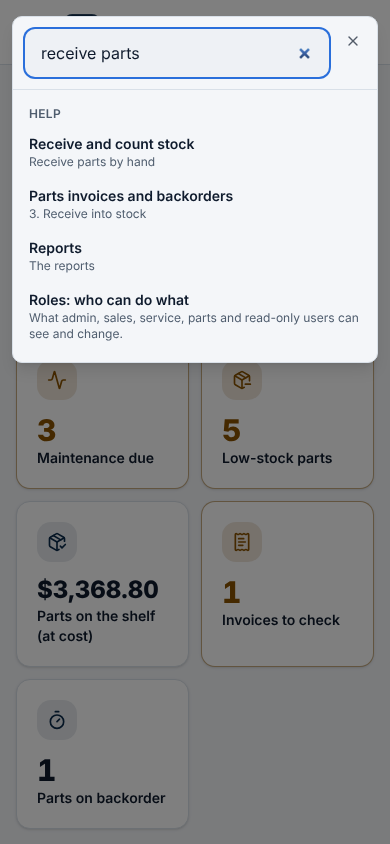
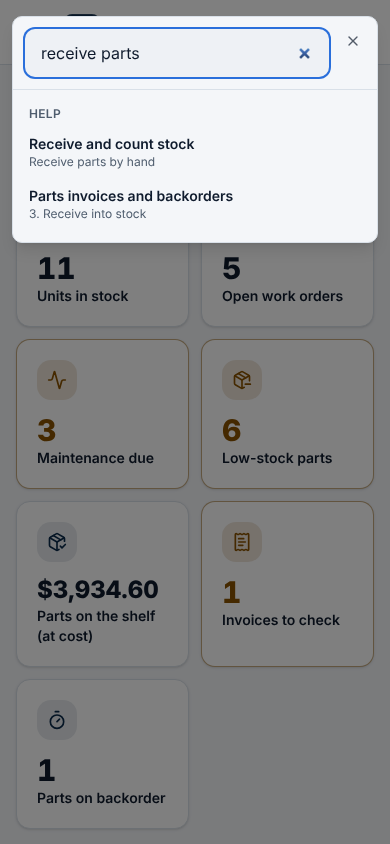
fix(help): the header search shows help only when every word matches, and only strong matches
A customer name or serial sharing one word with an article no longer pulls in
help (the shell test searching for nonsense caught it).

Claude-Session: https://claude.ai/code/session_01X1atEp19AdYxzoCLZifDtm

diff --git a/backend/apps/help/search.py b/backend/apps/help/search.py
@@ -428,7 +428,12 @@ def _snippet(raw: str, alts: list[str], length: int = 180) -> str:
     return ("…" if start else "") + text + ("…" if start + length < len(raw) else "")
 
 
-def search_articles(user: Any, query: str, limit: int = 10) -> list[Hit]:
+def search_articles(
+    user: Any, query: str, limit: int = 10, *, require_all: bool = False
+) -> list[Hit]:
+    """The best articles for `query`. On the Help page most of the words
+    are enough; `require_all` (the global search) needs every word, so a
+    customer name or serial doesn't pull in help that only shares one word."""
     terms = _terms(query)
     if not terms:
         return []
@@ -458,7 +463,8 @@ def search_articles(user: Any, query: str, limit: int = 10) -> list[Hit]:
                 score += best
                 # A word that is also a heading in the article counts a bit more.
                 score += 1.5 * _best(term, index.headings, prefix)
-        if not matched or matched < (len(terms) + 1) // 2:
+        needed = len(terms) if require_all else (len(terms) + 1) // 2
+        if not matched or matched < needed:
             continue
         # What was typed is exactly the title or one of the keywords.
         if whole.strip() and whole in index.phrases:
@@ -504,7 +510,10 @@ def search_help(user: Any, query: str, limit: int) -> list[SearchResult]:
     if not flag_enabled("help", user) or len(query.strip()) < 3:
         return []
     results = []
-    for hit in search_articles(user, query, limit=min(limit, 4)):
+    hits = search_articles(user, query, limit=min(limit, 4), require_all=True)
+    # The header search is for a quick jump: only the strong matches.
+    hits = [h for h in hits if h.score >= hits[0].score * 0.5] if hits else []
+    for hit in hits:
         url = f"/help/{hit.article.slug}" + (f"#{hit.anchor}" if hit.anchor else "")
         subtitle = hit.heading if hit.heading else hit.article.summary
         results.append(

diff --git a/backend/tests/test_help.py b/backend/tests/test_help.py
@@ -226,6 +226,12 @@ def test_global_search_includes_help(client_for: Any) -> None:
     assert "help" in res.json()["searchable"]
 
 
+def test_global_search_needs_every_word(client_for: Any) -> None:
+    """A serial or name that shares one word with an article finds no help."""
+    res = client_for(Role.SERVICE).get("/api/v1/search", {"q": "zzqx-nothing"})
+    assert res.json()["groups"]["help"] == []
+
+
 def test_global_search_short_query_skips_help(client_for: Any) -> None:
     res = client_for(Role.SERVICE).get("/api/v1/search", {"q": "wo"})
     assert res.json()["groups"]["help"] == []
